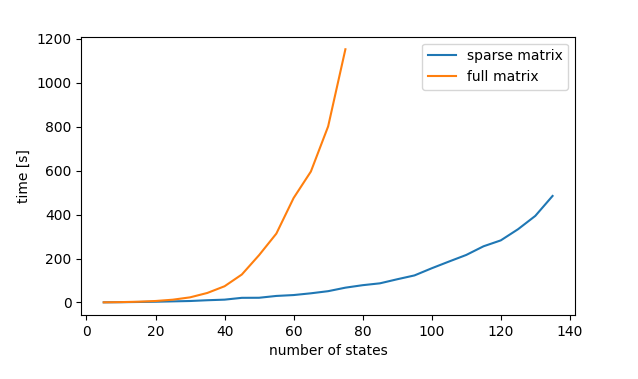
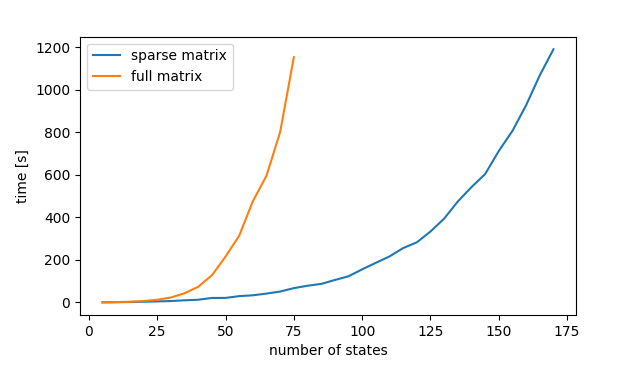
Add first part of conclusion

diff --git a/Thesis/DP_Lopatovsky_Lukas_2017.tex b/Thesis/DP_Lopatovsky_Lukas_2017.tex
@@ -62,13 +62,13 @@
 \author{Luk{\' a}{\v s} Lopatovsk{\' y}} %author's name without academic degrees
 \authorWithDegrees{Bc. Luk{\' a}{\v s} Lopatovsk{\' y}} %author's name with academic degrees
 \supervisor{Ing. Daniel Va{\v s}ata, Ph.D.}
-\acknowledgements{THANKS (remove entirely in case you do not with to thank anyone)}
+\acknowledgements{I would like to express my gratitude to my supervisor Ing. Daniel Va{\v s}ata, Ph.D. for the useful comments, remarks and engagement through the learning process of this master thesis. Furthermore I would like to thanks to Ing. Tomáš Šabata for introducing me to this interesting topic and to the Datamole Ltd. for the support of open-source development. }
 \abstractEN{Summarize the contents and contribution of your work in a few sentences in English language.}
 \abstractCS{V ňěkô n{\v e}kolika v{\v e}t{\' a}ch shr{\v n}te obsah a p{\v r}{\' i}nos t{\' e}to pr{\' a}ce v {\v c}esk{\' e}m jazyce.}
 \placeForDeclarationOfAuthenticity{Prague}
 \keywordsCS{Replace with comma-separated list of keywords in Czech.}
 \keywordsEN{HMM, CT-HMM.}
-\declarationOfAuthenticityOption{1} %select as appropriate, according to the desired license (integer 1-6)
+\declarationOfAuthenticityOption{5} %select as appropriate, according to the desired license (integer 1-6)
 % \website{http://site.example/thesis} %optional thesis URL
 
 
@@ -93,8 +93,6 @@ There was an effective theoretical solution, but it didn't exist any publicly av
 
 As the result of these thesis, we have defined the theory of the hidden Markov Models (Chapter \textbf{Probabilistic Models} \ref{ch:pm}), described and explained the HMMs algorithms (Chapter \textbf{Statistics} \ref{ch:s}), implemented the general efficient HMM library for Python (Details in Chapter \textbf{Implementation} \ref{ch:i}). The library implement both discrete-time and continuous-time HMM, provide all useful methods for work with the models as well as all algorithms described in second chapter, and as the key feature contains the EM algorithm for continuous-time HMM parameters estimation. We have implemented various variants of \textit{Expm} algorithm. User can choose between \textit{soft} and \textit{hard} method \ref{sec:shm}, \textit{float-interval} and \textit{integer-interval} variant of algorithm \ref{sec:alg} and train with both full and sparse jump-rate matrix. The behavior of all implemented variants is examined by conducting  experiments (Chapter \textbf{Experiments} \ref{ch:e}).      
  	
-		
-	
 \end{introduction}
 
 \setsecnumdepth{all}
@@ -931,7 +929,7 @@ The goal was to create a library, that can be used by broad range of users. Such
 
 To accomplish the established goal we have chosen to create \textit{Python} library. Specifically, the development was done under \textit{Python 3.5}. The Python is highly used among machine-learning community and the library is easily accessible by downloading from \textit{Pip}. %TODO [link to pip]. 
 
-The continuous-time hidden Markov model parameter estimation is computationally highly demanding. The using of the plain \textit{Python} would make it cumbersome. To deal with the issue, we have used libraries \textit{NumPy} - for effective work with array and matrices and \textit{SciPy} \cite{Sc01} for the implementation of \textit{exmp} algorithm. To make the computational performance even higher, we have decided to code all the most demanding parts in \textit{Cython} [http://cython.org/ TODO]. Cython is a compiled language that generates \textit{CPython} extension modules, so that the code-parts written in the language can get \textit{C}-like performance. The advantage is its easy integration into the Python module.
+The continuous-time hidden Markov model parameter estimation is computationally highly demanding. The using of the plain \textit{Python} would make it cumbersome. To deal with the issue, we have used libraries \textit{NumPy} - for effective work with array and matrices and \textit{SciPy} \cite{Sc01} for the implementation of \textit{exmp} algorithm \cite{Hi05}. To make the computational performance even higher, we have decided to code all the most demanding parts in \textit{Cython} [http://cython.org/ TODO]. Cython is a compiled language that generates \textit{CPython} extension modules, so that the code-parts written in the language can get \textit{C}-like performance. The advantage is its easy integration into the Python module.
 
 The best way how to learn to use the library is follow the code examples. That's way we have decided to create \textit{IPython} notebook with library usage examples, covering all the main use-cases of the library. Reading it, the follower can get the understanding how to correctly use the library and learn, what features are supported.          
 
@@ -1381,7 +1379,7 @@ Training of models with high number of hidden states is computationally expensiv
 All datasets used in this experiment were generated by the model with ``birth and death'' sequence of hidden states (similar as in Figure \ref{fig:db}) always with the same number of hidden states and observation symbols as the trained models. The jump-rate matrix $\matr{Q}$ of such a model is three-diagonal. The actual jump rates in the nonzero positions were generated randomly.
 
 As the training models we have used \textit{full} jump-rate matrix and \textit{sparse} (three-diagonal) jump-rate matrix. All parameters were initially randomly generated. In the first part of the experiment we have measured time of single iteration for models with full and sparse matrix.
-For full matrix we have used models with 5 to 75 hidden states, for the sparse matrix models with 5 to 135 hidden states. Higher number of hidden states in sparse matrix couldn't be used because its training hist memory limit. We have used dataset of 1000 observation points.
+For full matrix we have used models with 5 to 75 hidden states, for the sparse matrix models with 5 to 170 hidden states. We have used dataset of 1000 observation points.
  In the second part we have compared the convergence of models with full and sparse jump-rate matrix with variable number of hidden states. To overcome the overfitting we have used dataset of 10000 observation points.    
 
 \subsubsection*{ Observation }
@@ -1421,8 +1419,28 @@ The higher is the number of nonzero elements in the jump-rate matrix, the harder
 \setsecnumdepth{part}
 \chapter{Conclusion}
 
+This Master's thesis provides a detail theoretical description of discrete-time and continuous-time hidden Markov models, it explains the HMMs algorithms with the emphases on continuous-time model learning methods. We have examined current state-of-the-art methods and chosen the most promising to be implemented into library. 
+
+We have created the first of its art general purpose continuous-time hidden Markov model library under open-source license. The computationally effective and simple to use library provides broad functionality and various algorithms for both discrete-time and continuous-time model. Its main feature is EM learning algorithm using method of matrix exponentiation for counting end-state conditioned expectations (\textit{expm}).
+
+We have implemented two variants of the \textit{expm} algorithm differing in the maximized likelihood function, so called soft and hard method. Soft method maximize the probability of the training dataset being generated by the model, hard method is using the results of the Viterbi algorithm maximizing the most probable state sequence. We have showed the superiority of the soft method, because the hard method is not directly optimizing the wished likelihood function and often give misleading results.
+
+
+   
+
+  
+
+We have examined the behaviour and characteristic of continuous-time hidden Markov model. 
+
+descrube co sa robilo v thesach a knihovna
+ 
+describ porovnanie s diskr a vyuzite cthhm
 %malo informacie (vela hidden) menej presny.
-%rychlo sa straca informacia 
+%rychlo sa straca informacia
+
+desrib varianty co a ako + full sparse and hunderts of states --- a vysledky testov zhrn.
+
+interest before official release of the library
 
 \section{Future Work}
 %rozsirenia - ina reprezentacia matic na sparse , continuous observations, vztah s rekurent neural networks.https://en.wikipedia.org/wiki/Recurrent_neural_network - Continuous time RNN. postupny trening na velke modely.

diff --git a/Thesis/img/ex5.2/paint.py b/Thesis/img/ex5.2/paint.py
@@ -7,7 +7,7 @@ def plot_tables():
 
     s = np.loadtxt("sparse", delimiter=',')
     d = np.loadtxt("dense", delimiter=',')
-    Xs = range(5,140,5)
+    Xs = range(5,175,5)
     Xd = range(5,80,5)
 
     fig = plt.figure()
@@ -17,7 +17,7 @@ def plot_tables():
     ax.set_ylabel('time [s]')
 
     plt.plot( Xs , s, label = "sparse matrix"  )
-    plt.plot( Xd , d, label = "dense matrix"  )
+    plt.plot( Xd , d, label = "full matrix"  )
     plt.legend()
     fig.show()
     input()
